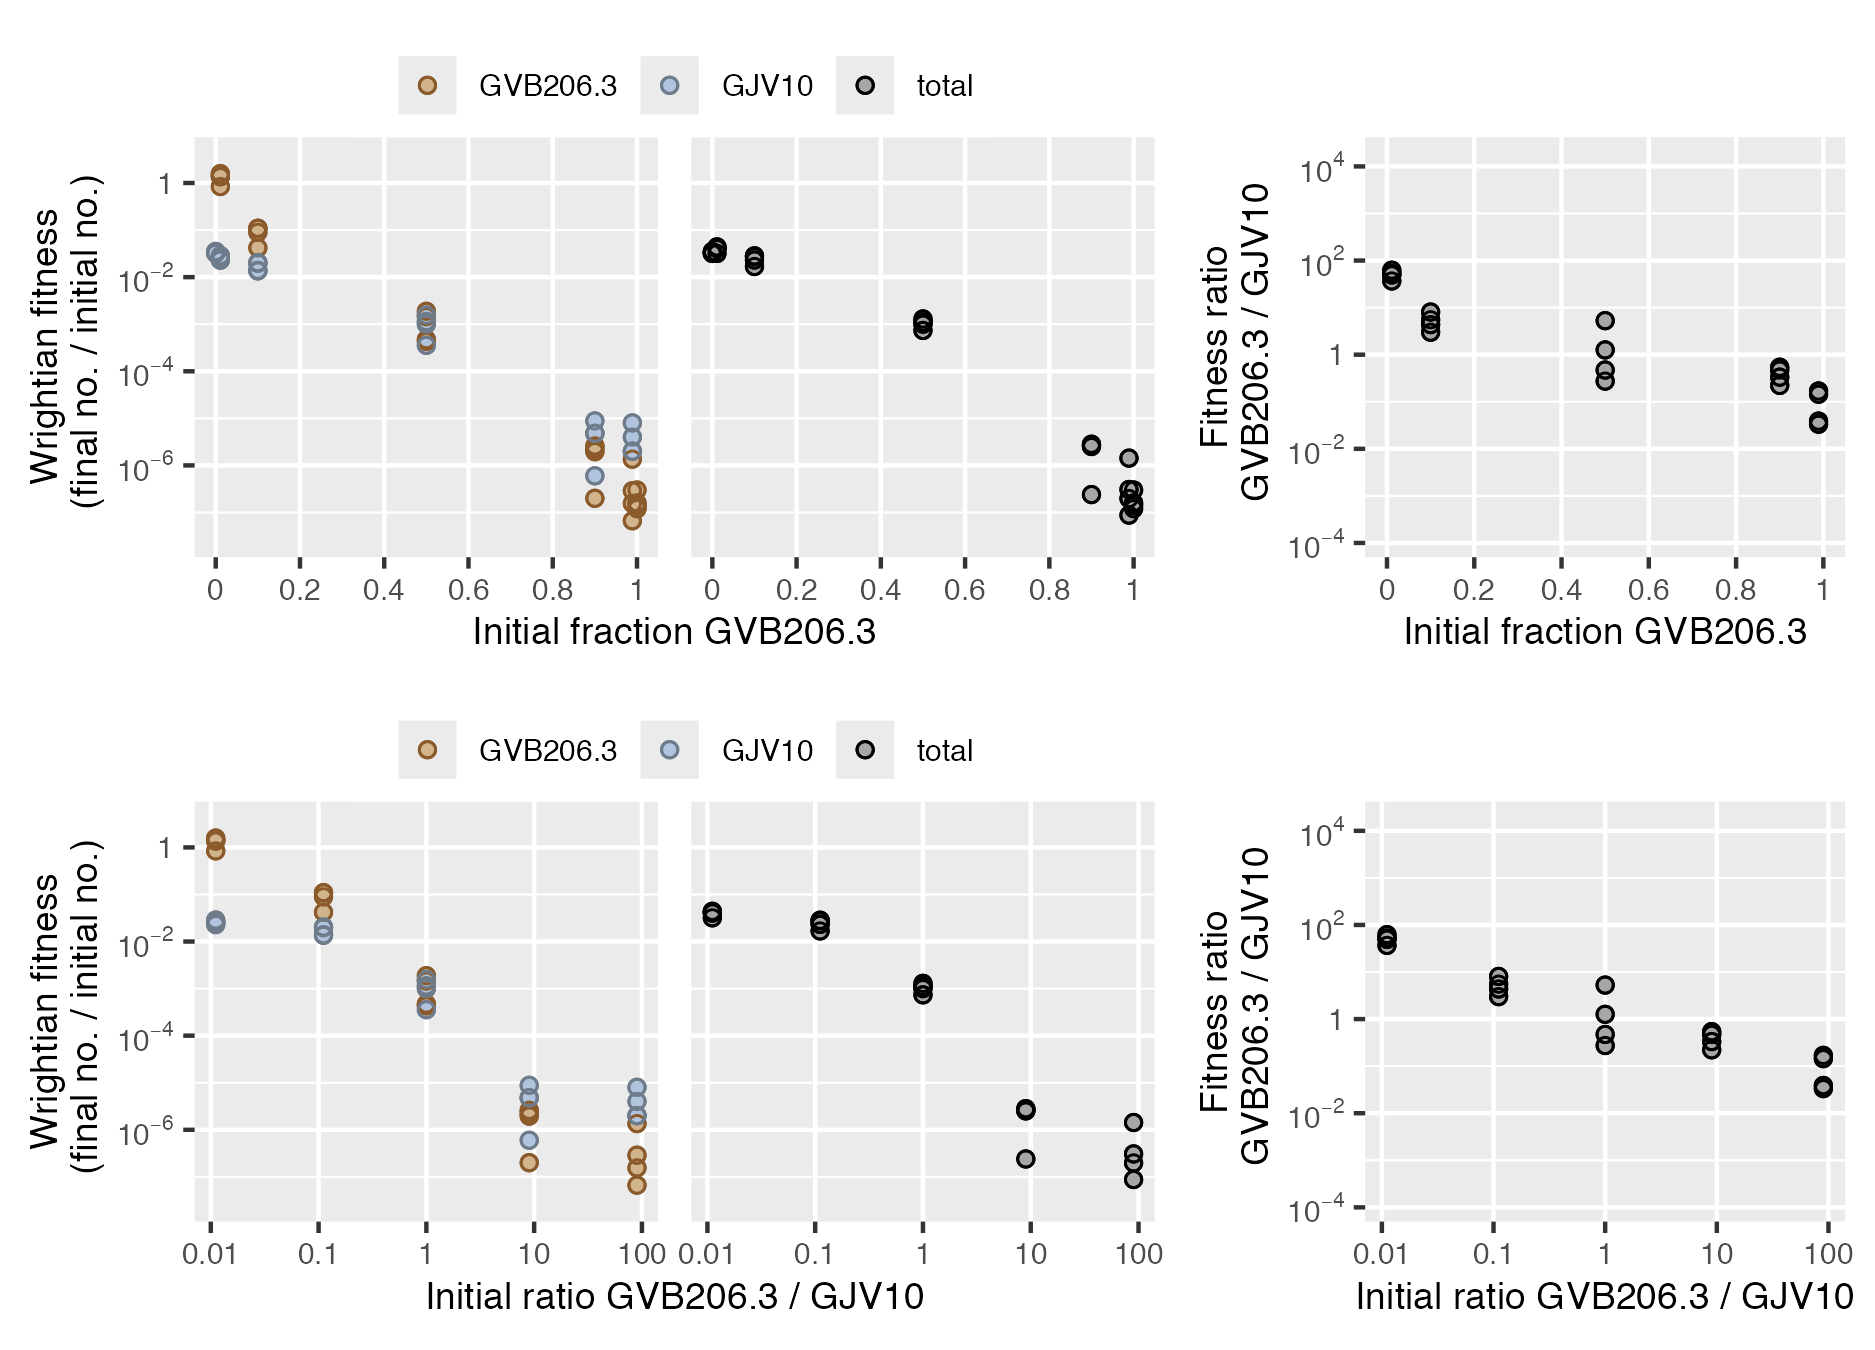
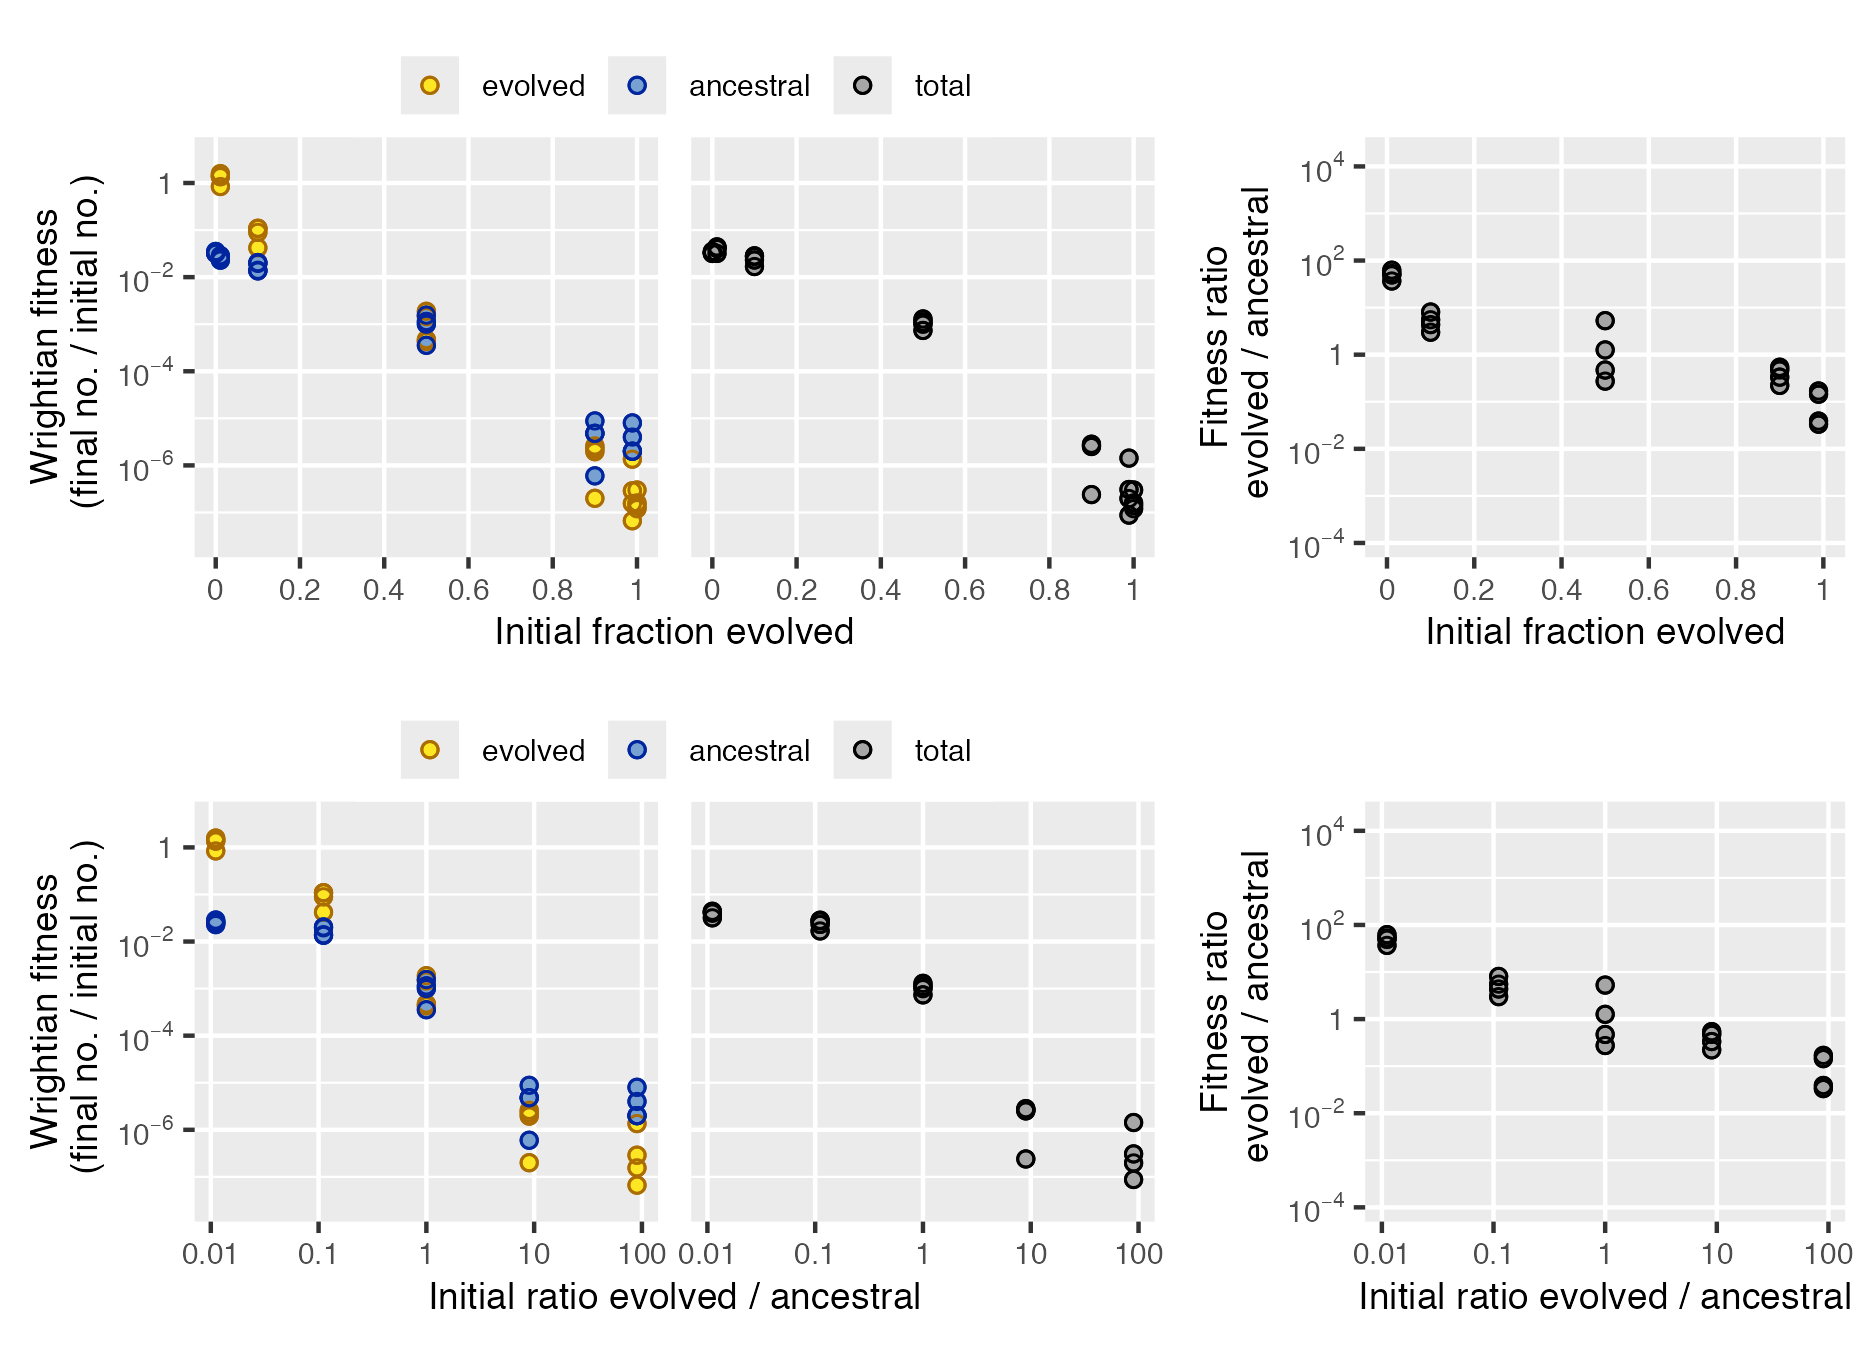
Revise README
* Add workflow diagram
* Use calculate -> identify -> visualize framing
* Use evolved/ancestral not GJV names
* Remove example with plot elements: not a good pitch feature
* Add plot customization with ggplot2: easier to understand
* Limit references to "group": can be confused for individual fruiting bodies
* Mention what the plots make easier (limits, breaks, etc)
* Mention social evolution, cooperation, kin selection, etc.

diff --git a/README.md b/README.md
@@ -10,16 +10,19 @@ coverage](https://codecov.io/gh/matryoshkev/microbimixr/graph/badge.svg)](https:
 <!-- badges: end -->
 
 microbimixr is an R package for analyzing microbial interactions in mix
-experiments. A common experimental design is to mix together two
-microbes (different strains of bacteria, for example) then measure how
-their survival and reproduction depend on mix frequency. How do they act
-differently together than on their own? microbimixr helps researchers
-get the most out of the data from these experiments by providing tools
-to:
+experiments. Studies of cooperation and conflict among microbes often
+use a common experimental design: mix together two microbes (different
+strains of bacteria, for example) then measure how their survival and
+reproduction depend on strain frequency. How do they act differently
+together than on their own? microbimixr helps you get the most out of
+your data by providing tools to:
 
 -   Calculate best-practice fitness measures
--   Identify which measures to use with a specific dataset
--   Make publication-quality figures showing interaction effects
+-   Identify which fitness measures are best for your research question
+    and data
+-   Visualize interaction effects as publication-quality figures
+
+![](./man/figures/README-workflow.png)
 
 ## Calculate fitness measures
 
@@ -28,14 +31,14 @@ microbimixr makes it easy to calculate fitness measures that are:
 
 -   Robust and quantitatively comparable across different species and
     different types of interaction
--   Useful for both individual and group-centered approaches to social
-    behavior
 -   Well-suited to statistical analysis of effect sizes and confidence
     intervals
+-   Useful for both individual and group-centered approaches to social
+    behavior
 -   Directly comparable to theoretical models of microbial evolution
 
 Starting from a data frame with the initial and final abundance of each
-microbe, calculate fitness effects with `calculate_mix_fitness()`:
+microbe, calculate fitness with `calculate_mix_fitness()`:
 
 ``` r
 library("microbimixr")
@@ -46,106 +49,102 @@ fitness_myxo <- calculate_mix_fitness(
         initial_number_B = "initial_cells_ancestral",
         final_number_A = "final_spores_evolved",
         final_number_B = "final_spores_ancestral", 
-        name_A = "GVB206.3", 
-        name_B = "GJV10"
+        name_A = "evolved", 
+        name_B = "ancestral"
     )
 )
 head(fitness_myxo)
-#>     name_A name_B initial_fraction_A initial_ratio_A_B    fitness_A  fitness_B
-#> 1 GVB206.3  GJV10         1.00000000               Inf 1.200000e-07         NA
-#> 2 GVB206.3  GJV10         0.98901099       90.00000000 1.555556e-07 0.00000400
-#> 3 GVB206.3  GJV10         0.90000000        9.00000000 2.600000e-06 0.00000480
-#> 4 GVB206.3  GJV10         0.50000000        1.00000000 4.280000e-04 0.00156000
-#> 5 GVB206.3  GJV10         0.10000000        0.11111111 4.200000e-02 0.01400000
-#> 6 GVB206.3  GJV10         0.01098901        0.01111111 8.420000e-01 0.02288889
-#>   fitness_total fitness_ratio_A_B
-#> 1  1.200000e-07                NA
-#> 2  1.978022e-07        0.03888889
-#> 3  2.820000e-06        0.54166667
-#> 4  9.940000e-04        0.27435897
-#> 5  1.680000e-02        3.00000000
-#> 6  3.189011e-02       36.78640777
+#>    name_A    name_B initial_fraction_A initial_ratio_A_B    fitness_A
+#> 1 evolved ancestral         1.00000000               Inf 1.200000e-07
+#> 2 evolved ancestral         0.98901099       90.00000000 1.555556e-07
+#> 3 evolved ancestral         0.90000000        9.00000000 2.600000e-06
+#> 4 evolved ancestral         0.50000000        1.00000000 4.280000e-04
+#> 5 evolved ancestral         0.10000000        0.11111111 4.200000e-02
+#> 6 evolved ancestral         0.01098901        0.01111111 8.420000e-01
+#>    fitness_B fitness_total fitness_ratio_A_B
+#> 1         NA  1.200000e-07                NA
+#> 2 0.00000400  1.978022e-07        0.03888889
+#> 3 0.00000480  2.820000e-06        0.54166667
+#> 4 0.00156000  9.940000e-04        0.27435897
+#> 5 0.01400000  1.680000e-02        3.00000000
+#> 6 0.02288889  3.189011e-02       36.78640777
 ```
 
-<!-- `calculate_mix_fitness()` works with most types of microbial abundance data including strain density, total group density, and strain frequency.  -->
-
 microbimixr works with most types of microbial abundance data including
-cell count, cell density, and strain frequency.
+cell counts, cell density, optical density, and strain frequency.
 
-## Compare fitness measures
+## Identify fitness response
 
-To quickly see what fitness measures would be most useful for your data,
-use `plot_mix_fitness()`. It draws a combined figure with strain
-fitness, total group fitness, and relative within-group fitness plotted
-against two measures of mix frequency.
+To quickly see what fitness measures would be most useful for your
+research question and data, use `plot_mix_fitness()`. It draws a
+combined figure that lets you compare strain fitness, total fitness, and
+the relative ratio of strain fitnesses. It also lets you compare linear
+and logarithmic measures of strain frequency.
 
 ``` r
 plot_mix_fitness(fitness_myxo)
 ```
 
-<!-- ggsave("README-compare-measures.png", width = 6.25, height = 4.5) -->
+<!-- ggplot2::ggsave("README-compare-measures.png", width = 6.25, height = 4.5) -->
 
 ![](./man/figures/README-compare-measures.png)
 
-This interaction between two genotypes of *Myxococcus* bacteria would be
-easiest to interpret in terms of total-group fitness as a function of
-initial genotype frequency and the within-group fitness ratio as a
-function of initial genotype ratio. These fitness effects are nearly
-linear (on log scales) and would be easiest to fit statistical models
-to.
+For example, this interaction between two genotypes of *Myxococcus*
+bacteria would be easiest to interpret and analyze as total fitness as a
+function of initial genotype fraction and fitness ratio as a function of
+initial genotype ratio. Those are the simplest fitness responses and
+easiest to fit statistical models to. These plots also let you interpret
+your data in terms of the fitness outcomes used by different theories of
+social evolution like kin selection, multilevel selection, and game
+theory.
 
-## Visualize interaction effects
+## Visualize fitness effects
 
-Make publication-quality figures easily with `plot_strain_fitness()`,
-`plot_total_fitness()`, and `plot_fitness_ratio()`:
-
-<!--
-Once you know which fitness measures to focus on, you can use microbimixr to visualize them. The simplest way is to use its built-in plot functions. They make figures with default settings suited to fitness data and have some basic graphical options. 
-
-microbimixr provides convenience functions to make publication-quality figures with default settings appropriate for fitness data.  
-
-fig_total <- plot_total_fitness(fitness_myxo)
-fig_within <- plot_fitness_ratio(
-    fitness_myxo, mix_scale = "ratio", ylim = c(1e-3, 1e3)
-)
-fig_total + fig_within
--->
+Once you know which fitness measures to analyze, you can use microbimixr
+to make publication-quality figures. The package includes convenience
+functions to plot data with default settings appropriate for mix
+experiments. Fitness axes are plotted on $\log_{10}$ scales, for
+example, include 1 for reference (no net change in abundance), and have
+a minimum ten-fold range.
 
 ``` r
 library("patchwork")
-plot_total_fitness(fitness_myxo, ylim = c(1e-8, 1)) +
-plot_fitness_ratio(fitness_myxo, mix_scale = "ratio", ylim = c(1e-4, 1e4)) +
-plot_annotation(tag_levels = "A")
+fig_total <- plot_total_fitness(fitness_myxo)
+fig_ratio <- plot_fitness_ratio(fitness_myxo, mix_scale = "ratio", ylim = c(1e-4, 1e4))
+fig_total + fig_ratio
 ```
 
-<!-- ggsave("README-plot-functions.png", width = 5, height = 2.25) -->
+<!-- ggsave("README-plots-simple.png", width = 5, height = 2.25) -->
 
-![](./man/figures/README-plot-functions.png)
+![](./man/figures/README-plots-simple.png)
 
-You can also use the individual axes and other components of microbimixr
-plots with ggplot2:
+You can also customize these plots using the ggplot2 graphics package:
 
 ``` r
 library("ggplot2")
 fitness_myxo |>
-    ggplot(aes(x = initial_fraction_A, y = fitness_total)) +
-    scale_x_initial_fraction(name = "Initial frequency of evolved strain") +
-    scale_y_fitness_total(name = "Group sporulation success\n(spores/cell)") +
-    geom_smooth(method = "lm", se = FALSE, formula = y ~ poly(x, 2)) +
-    geom_point_overlap(fill = "lightblue", color = "darkblue", size = 2) +
-    theme_bw()
+    plot_total_fitness(
+        xlab = "Initial frequency of evolved strain",
+        ylab = "Total sporulation\n(spores/cell)", 
+        ylim = c(1e-8, 1), color = "darkblue", fill = "skyblue"
+    ) +
+    geom_smooth(
+        method = "lm", formula = y ~ poly(x, 2), 
+        se = FALSE, linewidth = 0.5
+    ) +
+    theme_bw(base_size = 9)
 ```
 
-<!-- ggsave("README-plot-elements.png", width = 3, height = 2.25) -->
+<!-- ggsave("README-plots-custom.png", width = 2.5, height = 2) -->
 
-<img src="./man/figures/README-plot-elements.png" style="width:50.0%" />
+<img src="./man/figures/README-plots-custom.png" style="width:50.0%" />
 
-## Installation
+## Install microbimixr
 
 ``` r
-# The development version from GitHub:
+# Install the development version from GitHub:
 # install.packages("devtools")
-devtools::install_github("matryoshkev/microbimixr")
+devtools::install_github("matryoshkev/microbimixr", build_vignettes = TRUE)
 ```
 
 ## Further reading
@@ -155,23 +154,5 @@ devtools::install_github("matryoshkev/microbimixr")
     288:20201657. <https://doi.org/10.1098/rspb.2020.1657>
 
 <!--
-## Example
-
-This is a basic example which shows you how to solve a common problem:
-
-
-``` r
-# library(microbimixr)
-## basic example code
-```
-
-What is special about using `README.Rmd` instead of just `README.md`? You can include R chunks like so:
-
-You'll still need to render `README.Rmd` regularly, to keep `README.md` up-to-date. `devtools::build_readme()` is handy for this.
-
-You can also embed plots, for example:
-
-
-
-In that case, don't forget to commit and push the resulting figure files, so they display on GitHub and CRAN.
+Use `devtools::build_readme()` to render `README.Rmd` and keep `README.md` up-to-date. 
 -->
